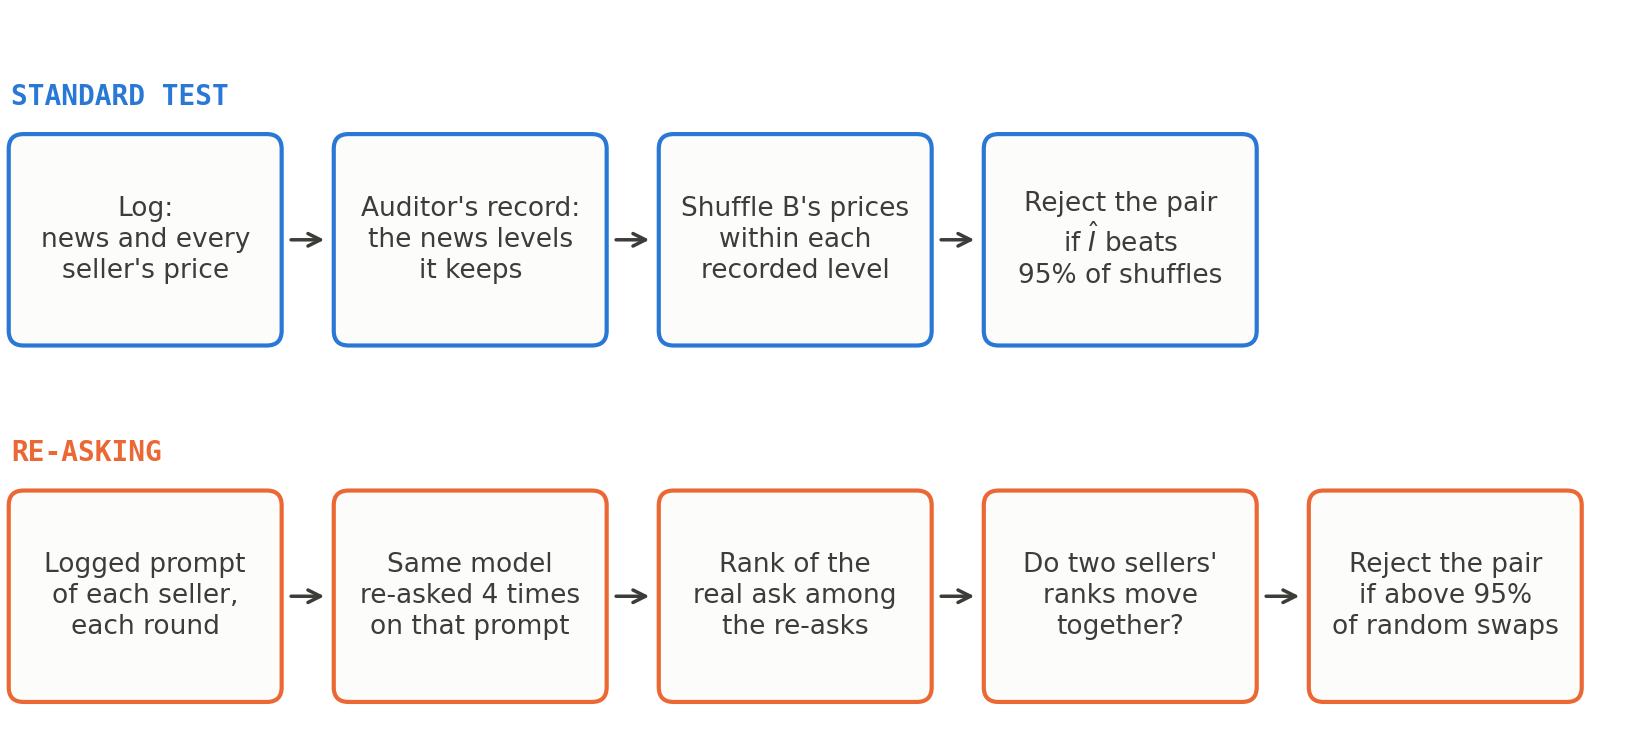
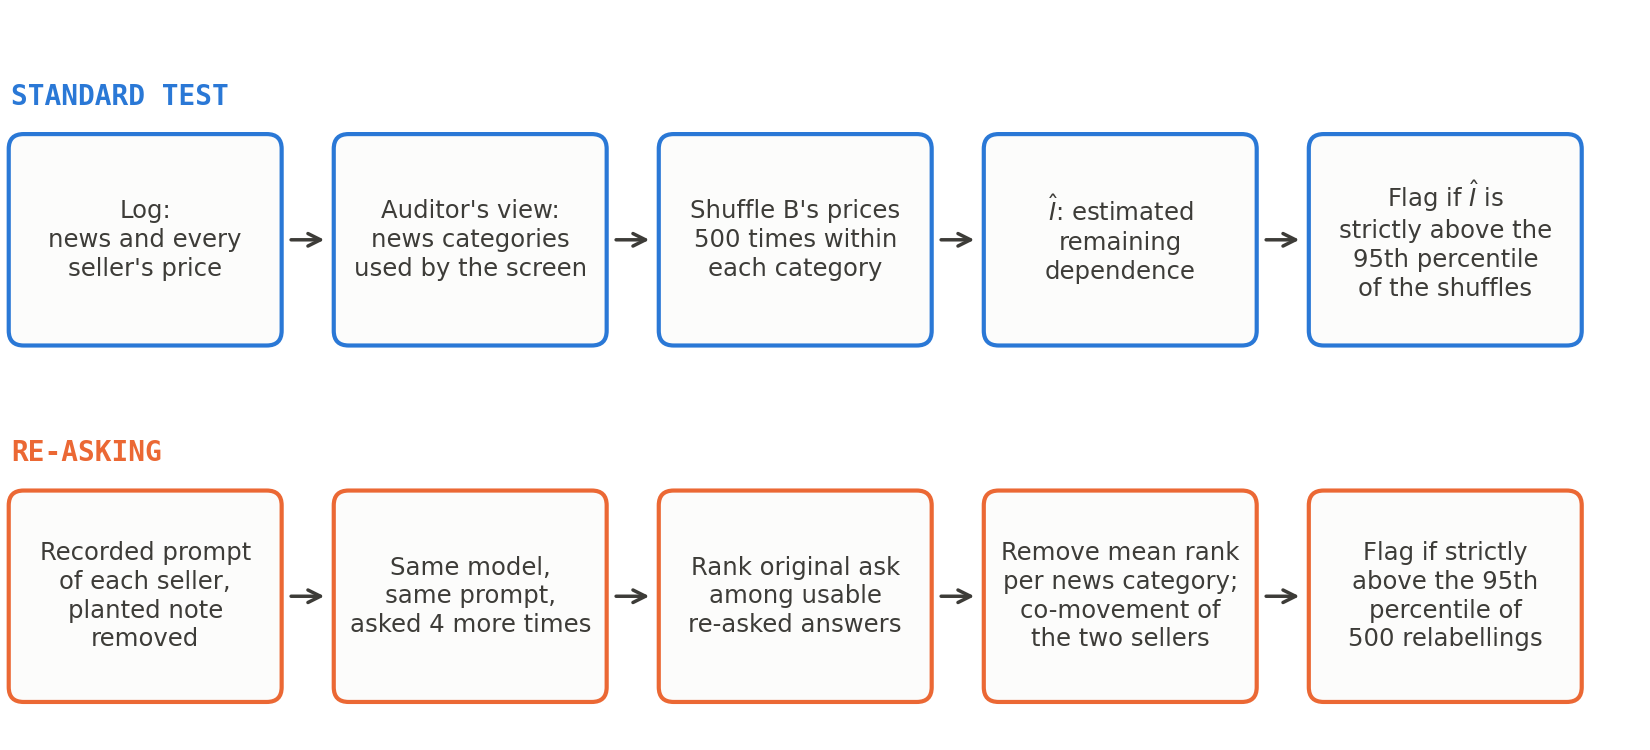
Redraw figures in the paper's vocabulary
Auditor's view wording on axes and panels, method diagram defines Î before
the strict 95th-percentile rule, stacked re-asking figure (fig_reask_tests)
replaces fig5/fig5c, new Figures 1 and 3 (fig_problem, fig_reask_round).

diff --git a/figures.py b/figures.py
@@ -5,9 +5,10 @@ import numpy as np
 import matplotlib
 matplotlib.use("Agg")
 import matplotlib.pyplot as plt
+import matplotlib.ticker
 import sim, theory
 
-TEST, FLAG, THEORY, INK = "#2a78d6", "#eb6834", "#5f5e5a", "#3d3c38"  # validated pair (dataviz palette slots 1-2)
+TEST, FLAG, THEORY, INK, GREEN = "#2a78d6", "#eb6834", "#5f5e5a", "#3d3c38", "#2e9e62"  # validated pair (dataviz palette slots 1-2)
 plt.rcParams.update({"axes.spines.top": False, "axes.spines.right": False, "axes.edgecolor": INK,
                      "axes.labelcolor": INK, "xtick.color": INK, "ytick.color": INK, "font.size": 9})
 
@@ -72,123 +73,106 @@ def rates(path):
 
 
 def dots(ax, x, k_test, k_flag, n, dx=0.12, label=True):
-    """Test-only rate and flag rate side by side at x, each with its Wilson interval."""
-    for k, col, mk, off, name in [(k_test, TEST, "o", -dx, "standard test ($\\hat{I}$ above its 95% shuffle threshold)"), (k_flag, FLAG, "s", dx, "test + ranking rule (Γ)")]:
+    """Standard-test rate and ranking-rule rate side by side at x, each with its Wilson interval."""
+    for k, col, mk, off, name in [(k_test, TEST, "o", -dx, "standard test"), (k_flag, FLAG, "s", dx, "standard test + ranking rule (Γ)")]:
         lo, hi = wilson(k, n)
-        ax.errorbar(x + off, k / n, yerr=[[k / n - lo], [hi - k / n]], fmt=mk, color=col, ms=5, lw=1.2, capsize=0,
+        ax.errorbar(x + off, k / n, yerr=[[k / n - lo], [hi - k / n]], fmt=mk, color=col, ms=4.5, lw=1.1, capsize=0,
                     label=name if label else None)
 
 
 def fig1(R):
-    panels = [("E1", "identity"), ("E2", "identity"), ("E2", "constant"), ("E2b", "identity"),
-              ("E3", "identity"), ("E4", "identity"), ("E4", "constant")]
+    """Appendix: every condition and pair, 600 rounds, in plain condition names (two rows so it prints legibly)."""
+    panels = [("E1", "identity", "prices ignore news,\nno planted pair (50 repeats)"), ("E2", "identity", "prices follow news,\nall five news levels"),
+              ("E2", "constant", "prices follow news,\nno news information"), ("E2b", "identity", "hidden shared input\nfor sellers 1 and 4"),
+              ("E3", "identity", "planted pair (2,3),\nprices ignore news"), ("E4", "identity", "planted pair (2,3),\nall five news levels"),
+              ("E4", "constant", "planted pair (2,3),\nno news information")]
     pairs = ["12", "13", "14", "23", "24", "34"]
-    fig, axs = plt.subplots(1, len(panels), figsize=(14, 2.8), sharey=True)
-    for i, (ax, (c, C)) in enumerate(zip(axs, panels)):
+    fig, axs = plt.subplots(2, 4, figsize=(6.6, 4.6), sharey=True)
+    for i, (ax, (c, C, title)) in enumerate(zip(axs.flat, panels)):
         for j, p in enumerate(pairs):
-            dots(ax, j, *R[(c, C, p)], label=i == 0 and j == 0)
-        ax.axhline(0.05, color=THEORY, ls="--", lw=1)
-        ax.set_xticks(range(6), [f"({p[0]},{p[1]})" for p in pairs], rotation=90)
-        ax.set_title(f"{c}, news {'seen' if C == 'identity' else 'hidden'}" if c in ("E2", "E4") else c, color=INK)
-    axs[0].set_ylabel("share of seeds"); axs[0].set_ylim(-0.02, 1.02)
-    fig.legend(*axs[0].get_legend_handles_labels(), loc="upper right", frameon=False, ncol=2)
-    fig.tight_layout(rect=(0, 0, 1, 0.9)); fig.savefig("figures/fig1_flag_rates.png", dpi=200)
+            dots(ax, j, *R[(c, C, p)], dx=0.15, label=i == 0 and j == 0)
+        ax.axhline(0.05, color=THEORY, ls="--", lw=0.9)
+        ax.set_xticks(range(6), [f"{p[0]},{p[1]}" for p in pairs], fontsize=6.5)
+        ax.set_title(title, color=INK, fontsize=7)
+        ax.tick_params(axis="y", labelsize=7)
+    axs.flat[-1].axis("off")
+    axs[0, 0].set_ylabel("share of repeats flagged", fontsize=7.5); axs[1, 0].set_ylabel("share of repeats flagged", fontsize=7.5)
+    axs[0, 0].set_ylim(-0.02, 1.02)
+    axs.flat[-1].legend(*axs[0, 0].get_legend_handles_labels(), loc="center", frameon=False, fontsize=7, title="seller pair (x-axis)\ndashed line: 5%", title_fontsize=7)
+    fig.tight_layout(pad=0.3); fig.savefig("figures/fig1_flag_rates.png", dpi=250)
 
 
 def fig2(R):
+    """Appendix: hidden shared input of strength λ for sellers 1 and 4, complete record, 600 rounds."""
     lams = [c[3] for c in sim.LAMBDAS]
-    fig, ax = plt.subplots(figsize=(4.5, 3.2))
+    fig, ax = plt.subplots(figsize=(4.3, 3.0))
     for i, (name, *_ ) in enumerate(sim.LAMBDAS):
         dots(ax, lams[i], *R[(name, "identity", "14")], dx=0.03, label=i == 0)
     grid = np.linspace(0, 2, 81)
     ax.plot(grid, [theory.flag_rate(theory.true_cmi(sim.BETA, l, sim.IDENTITY), 5) for l in grid], color=THEORY, lw=1.5,
-            label="theory, test only (non-central χ²)")
+            label="prediction from the model (standard test)")
     ax.axhline(0.05, color=THEORY, ls="--", lw=1)
-    ax.set_xlabel("λ (shared hidden term, agents 1 and 4)"); ax.set_ylabel("share of seeds, pair (1,4)")
+    ax.set_xlabel("λ, strength of the unrecorded shared input"); ax.set_ylabel("share of repeats flagged, pair (1,4)")
     ax.set_ylim(-0.02, 1.02); ax.legend(frameon=False, fontsize=7)
-    fig.tight_layout(); fig.savefig("figures/fig2_lambda.png", dpi=200)
+    fig.tight_layout(); fig.savefig("figures/fig2_lambda.png", dpi=250)
 
 
 def fig3(path="results/dial.csv"):
+    """Appendix: average shuffled statistic (non-colluding pairs, 600 rounds) against K/(2n)."""
     m = defaultdict(list)
     for r in csv.DictReader(open(path)):
         if r["condition"] == "E2": m[r["C"]].append(float(r["null_mean"]))
     Ks = [5, 3, 2, 1]
-    fig, ax = plt.subplots(figsize=(4, 3))
-    ax.plot(Ks, [np.mean(m[f"K{k}"]) for k in Ks], "o", color=TEST, ms=6, label="mean of shuffled $\\hat{I}$ (E2)")
-    ax.plot(Ks, [theory.null_bias(k) for k in Ks], color=THEORY, lw=1.5, label="theory K(r−1)(c−1)/(2n)")
-    ax.set_xticks(Ks); ax.invert_xaxis(); ax.set_xlabel("news states seen by the auditor, K"); ax.set_ylabel("null bias of $\\hat{I}$ (nats)")
-    ax.legend(frameon=False, fontsize=7); fig.tight_layout(); fig.savefig("figures/fig3_null_bias.png", dpi=200)
+    fig, ax = plt.subplots(figsize=(3.6, 2.8))
+    ax.plot(Ks, [np.mean(m[f"K{k}"]) for k in Ks], "o", color=TEST, ms=6, label=f"average of 500 shuffled {I_HAT}")
+    ax.plot(Ks, [theory.null_bias(k) for k in Ks], color=THEORY, lw=1.5, label="approximation $K/(2n)$")
+    ax.set_xticks(Ks, ["5", "3", "2", "no news"]); ax.invert_xaxis()
+    ax.set_xlabel("news categories used by the screen"); ax.set_ylabel(f"{I_HAT} under shuffling (nats)")
+    ax.legend(frameon=False, fontsize=7); fig.tight_layout(); fig.savefig("figures/fig3_null_bias.png", dpi=250)
 
 
 I_HAT = r"$\hat{I}$"
 BIC = "#1baf7a"  # dataviz palette slot 3; contrast WARN, so it always has its own marker (triangle) and legend label
 
 
-def bic_count(path, c, C, p, K, n):
-    """Seeds where the Bayes (BIC) rule flags the pair: 2n·γ > K·log n (n rounds, K news states seen)."""
-    v = [2 * n * float(r["gamma"]) > K * np.log(n) for r in csv.DictReader(open(path)) if (r["condition"], r["C"], r["A"] + r["B"]) == (c, C, p)]
-    return sum(v), len(v)
-
-
-def fig_dial(R, R6000=None):
-    """Dial: E2 innocent pair at T = 600 (and T = 6000 if given), E4 pairs at T = 600. Test-only, flag and Bayes
-    (BIC) rates with Wilson intervals; theory lines for E2: test (solid), BIC (dashed). 5% reference dotted."""
-    Ks = [5, 3, 2, 1]
-    panels = [("E2", "14", "E2, innocent pair (1,4), T = 600", R, "results/dial.csv", 600)]
-    if R6000: panels.append(("E2", "14", "E2, innocent pair (1,4), T = 6000", R6000, "results/dial_T6000.csv", 6000))
-    panels += [("E4", "14", "E4, innocent pair (1,4), T = 600", R, "results/dial.csv", 600),
-               ("E4", "23", "E4, colluding pair (2,3), T = 600", R, "results/dial.csv", 600)]
-    fig, axs = plt.subplots(1, len(panels), figsize=(3.4 * len(panels), 3.2), sharey=True)
-    for ax, (c, p, title, RR, path, n) in zip(axs, panels):
-        for i, k in enumerate(Ks):
-            dots(ax, i, *RR[(c, f"K{k}", p)], dx=0.15, label=ax is axs[0] and i == 0)
-            kb, nb = bic_count(path, c, f"K{k}", p, k, n)
-            lo, hi = wilson(kb, nb)
-            ax.errorbar(i, kb / nb, yerr=[[kb / nb - lo], [hi - kb / nb]], fmt="^", color=BIC, ms=5, lw=1.2, capsize=0,
-                        label="Bayes-factor rule (2n$\\hat{I}$ > K log n)" if ax is axs[0] and i == 0 else None)
-        if c == "E2":
-            I = [theory.true_cmi(sim.BETA, 0.0, sim.DIAL[f"K{k}"]) for k in Ks]
-            ax.plot(range(4), [theory.flag_rate(x, k, n) for x, k in zip(I, Ks)], color=THEORY, lw=1.5, label="theory, test only" if ax is axs[0] else None)
-            ax.plot(range(4), [theory.bic_flag_rate(x, k, n) for x, k in zip(I, Ks)], color=THEORY, lw=1.5, ls="--", label="theory, Bayes rule" if ax is axs[0] else None)
-        ax.axhline(0.05, color=THEORY, ls=":", lw=1)
-        ax.set_xticks(range(4), [str(k) for k in Ks]); ax.set_xlabel("news states seen by the auditor, K"); ax.set_title(title, color=INK, fontsize=8)
-    axs[0].set_ylabel("share of seeds"); axs[0].set_ylim(-0.02, 1.02); axs[0].legend(frameon=False, fontsize=6)
-    fig.tight_layout(); fig.savefig("figures/fig_dial.png", dpi=200)
-
-
 def fig_hero(path="results/pooled.csv"):
-    """Hero figure: innocent pairs (E2, pooled over the 6 pairs, cluster bootstrap by seed) rejected vs the auditor's
-    information level. (a) permutation test, (b) Bayes rule; data at 600 and 6,000 rounds, lines = prediction from the model."""
+    """Main figure: non-colluding pairs wrongly flagged vs the news categories the auditor records (E2, six pairs pooled,
+    cluster bootstrap by repeat). (a) standard test, (b) stricter BIC-based rule; data at 600 and 6,000 rounds, lines = prediction."""
     P = {(r["source"], r["C"], r["rate"]): r for r in csv.DictReader(open(path)) if r["condition"] == "E2"}
     Ks = [5, 3, 2, 1]
     I = [theory.true_cmi(sim.BETA, 0.0, sim.DIAL[f"K{k}"]) for k in Ks]
-    fig, axs = plt.subplots(1, 2, figsize=(6.6, 3.0), sharey=True)
+    fig, axs = plt.subplots(1, 2, figsize=(6.6, 3.1), sharey=True)
     for ax, (rate, pred, title) in zip(axs, [("test", theory.flag_rate, "(a) standard test, 5% level"),
-                                             ("bayes", theory.bic_flag_rate, "(b) Bayes-factor rule: reject if 2n$\\hat{I}$ > K log n")]):
+                                             ("bayes", theory.bic_flag_rate, "(b) stricter BIC-based rule")]):
         for src, n, col, mk in [("dial.csv", 600, TEST, "o"), ("dial_T6000.csv", 6000, FLAG, "s")]:
             ax.plot(range(4), [pred(x, k, n) for x, k in zip(I, Ks)], color=col, lw=1.3, alpha=0.7)
             for i, k in enumerate(Ks):
                 r = P.get((src, f"K{k}", rate))
                 if r is None: continue
                 e, lo, hi = float(r["estimate"]), float(r["lo"]), float(r["hi"])
-                ax.errorbar(i + (0.06 if n == 6000 else -0.06), e, yerr=[[e - lo], [hi - e]], fmt=mk, color=col, ms=5, lw=1.2,
-                            capsize=0, label=f"{n:,} rounds: data (line = prediction)" if i == 0 else None)
+                dx = 0.06 if n == 6000 else -0.06
+                ax.errorbar(i + dx, e, yerr=[[e - lo], [hi - e]], fmt=mk, color=col, ms=5, lw=1.2, capsize=0,
+                            label=f"{n:,} rounds (line: prediction)" if i == 0 else None)
+                if 0.004 < e < 0.995:  # print the measured rate next to every point that is not 0% or 100%
+                    ax.annotate(f"{e:.1%}", (i + dx, e), xytext=(7 if n == 6000 else -7, 8 if i == 0 else 0), textcoords="offset points",
+                                ha="left" if n == 6000 else "right", va="center", fontsize=6.5, color=col)
         ax.axhline(0.05, color=THEORY, ls=":", lw=1, label="5% target" if ax is axs[0] else None)
-        ax.set_xticks(range(4), ["5\n(complete)", "3", "2", "none"]); ax.set_xlabel("news levels the auditor records")
-        ax.set_title(title, color=INK, fontsize=9)
-    axs[0].set_ylabel("innocent pairs rejected"); axs[0].set_ylim(-0.02, 1.02); axs[0].legend(frameon=False, fontsize=7.5, loc="upper left")
-    fig.tight_layout(); fig.savefig("figures/fig_hero.png", dpi=200)
+        ax.set_xticks(range(4), ["5\n(all levels)", "3", "2", "no news"]); ax.set_xlabel("news categories used by the screen")
+        ax.set_title(title, color=INK, fontsize=8.5)
+    axs[0].set_ylabel("non-colluding pairs wrongly flagged"); axs[0].set_ylim(-0.03, 1.05)
+    axs[0].yaxis.set_major_formatter(matplotlib.ticker.PercentFormatter(1.0)); axs[0].legend(frameon=False, fontsize=7, loc="upper left")
+    fig.tight_layout(); fig.savefig("figures/fig_hero.png", dpi=250)
 
 
 def fig_method(out="figures/fig1_method.png"):
     """Figure 1: the two tests as flat box-and-arrow rows, drawn at page width so its text prints at about 8 pt."""
     from matplotlib.patches import FancyBboxPatch
-    rows = [("STANDARD TEST", TEST, ["Log:\nnews and every\nseller's price", "Auditor's record:\nthe news levels\nit keeps",
-                                      "Shuffle B's prices\nwithin each\nrecorded level", f"Reject the pair\nif {I_HAT} beats\n95% of shuffles"]),
-            ("RE-ASKING", FLAG, ["Logged prompt\nof each seller,\neach round", "Same model\nre-asked 4 times\non that prompt",
-                                 "Rank of the\nreal ask among\nthe re-asks", "Do two sellers'\nranks move\ntogether?",
-                                 "Reject the pair\nif above 95%\nof random swaps"])]
+    rows = [("STANDARD TEST", TEST, ["Log:\nnews and every\nseller's price", "Auditor's view:\nnews categories\nused by the screen",
+                                      "Shuffle B's prices\n500 times within\neach category", f"{I_HAT}: estimated\nremaining\ndependence",
+                                      f"Flag if {I_HAT} is\nstrictly above the\n95th percentile\nof the shuffles"]),
+            ("RE-ASKING", FLAG, ["Recorded prompt\nof each seller,\nplanted note\nremoved", "Same model,\nsame prompt,\nasked 4 more times",
+                                 "Rank original ask\namong usable\nre-asked answers", "Remove mean rank\nper news category;\nco-movement of\nthe two sellers",
+                                 "Flag if strictly\nabove the 95th\npercentile of\n500 relabellings"])]
     fig, ax = plt.subplots(figsize=(6.6, 3.0)); ax.set_xlim(0, 6.6); ax.set_ylim(0, 3.0); ax.axis("off")
     w, gap = 1.08, 0.23
     for r, (label, col, boxes) in enumerate(rows):
@@ -198,7 +182,7 @@ def fig_method(out="figures/fig1_method.png"):
             x = 0.02 + i * (w + gap)
             ax.add_patch(FancyBboxPatch((x, y - 0.42), w, 0.84, boxstyle="round,pad=0.01,rounding_size=0.06",
                                         fc="#fcfcfb", ec=col, lw=1.2))
-            ax.text(x + w / 2, y, t, ha="center", va="center", fontsize=7.6, color=INK, linespacing=1.25)
+            ax.text(x + w / 2, y, t, ha="center", va="center", fontsize=7.0, color=INK, linespacing=1.25)
             if i < len(boxes) - 1:
                 ax.annotate("", xy=(x + w + gap - 0.02, y), xytext=(x + w + 0.02, y), arrowprops=dict(arrowstyle="->", color=INK, lw=1))
     fig.tight_layout(pad=0.2); fig.savefig(out, dpi=250)
@@ -211,6 +195,6 @@ if __name__ == "__main__":
     fig1(rates("results/runs.csv"))
     if os.path.exists("results/lambda.csv"): fig2(rates("results/lambda.csv"))
     if os.path.exists("results/dial.csv"):
-        fig3(); fig_dial(rates("results/dial.csv"), rates("results/dial_T6000.csv") if os.path.exists("results/dial_T6000.csv") else None)
+        fig3()
     pooled_table(); fig_hero(); fig_method()
     print("wrote figures/")

diff --git a/llm/replay.py b/llm/replay.py
@@ -198,21 +198,31 @@ def write_results(conds, done, out=os.path.join(os.path.dirname(ROOT), "results"
     print(f"wrote {out}")
 
 
-def figure(path=os.path.join(os.path.dirname(ROOT), "results", "replay.csv"),
-           out=os.path.join(os.path.dirname(ROOT), "figures", "fig5_replay.png"), col="gamma", ylabel=r"$\hat{I}$ (nats)"):
-    """Observed γ vs the 95th percentile of its replay null, one column per pair-run, S then C1. Labelled pilot."""
+def figure(out=os.path.join(os.path.dirname(ROOT), "figures", "fig_reask_tests.png")):
+    """Re-asking tests, stacked: (a) pre-registered binary statistic (results/replay.csv), (b) rank statistic
+    (results/replay_rank.csv). One column per pair and game; games without a planted pair left, planted games right."""
     import csv
     import matplotlib; matplotlib.use("Agg"); import matplotlib.pyplot as plt
     sys.path.insert(0, os.path.dirname(ROOT)); import figures as F
-    rows = list(csv.DictReader(open(path)))
-    fig, ax = plt.subplots(figsize=(7, 3))
-    for i, r in enumerate(rows):
-        x = i + (i >= 9)  # gap between S and C1
-        ax.plot([x, x], [float(r["null_mean"]), float(r["q95"])], color=F.TEST, lw=2, label="replay null: mean to 95th pct." if i == 0 else None)
-        ax.plot(x, float(r[col]), "s", color=F.FLAG, ms=5, label="observed " + ylabel.split(" (")[0] if i == 0 else None)
-    ax.set_xticks([i + (i >= 9) for i in range(len(rows))], [f"{r['condition']} s{r['seed']}\n({r['A']},{r['B']})" for r in rows], fontsize=6)
-    ax.set_ylabel(ylabel); ax.set_title("Pilot, replay test (3 runs each): S left, C1 right; coupled pair in C1 = (1,2)", color=F.INK, fontsize=8)
-    ax.legend(frameon=False, fontsize=7); fig.tight_layout(); fig.savefig(out, dpi=200)
+    base = os.path.join(os.path.dirname(ROOT), "results")
+    panels = [("replay.csv", "gamma", r"$\hat{I}$ on raised-or-not moves", "(a) pre-registered binary statistic"),
+              ("replay_rank.csv", "c", r"rank co-movement $S_{ij}$", "(b) rank statistic, chosen after inspecting the planted games")]
+    fig, axs = plt.subplots(2, 1, figsize=(6.6, 4.8))
+    for ax, (f, col, ylabel, title) in zip(axs, panels):
+        rows = list(csv.DictReader(open(os.path.join(base, f))))
+        for i, r in enumerate(rows):
+            x = i + (i >= 9)  # gap between the two groups
+            planted = r["condition"] == "C1" and r["A"] + r["B"] == "12"
+            ax.plot([x, x], [float(r["null_mean"]), float(r["q95"])], color=F.TEST, lw=2.2, label="re-asking comparison: mean to 95th percentile" if i == 0 else None)
+            ax.plot(x, float(r[col]), "s", color=F.GREEN if planted else F.FLAG, ms=5,
+                    label="observed, planted pair" if planted and i == 9 else ("observed, other pairs" if i == 0 else None))
+        ax.set_xticks([i + (i >= 9) for i in range(len(rows))], [f"g{int(r['seed']) + 1}\n{r['A']},{r['B']}" for r in rows], fontsize=6)
+        ax.set_ylabel(ylabel, fontsize=7.5); ax.set_title(title, color=F.INK, fontsize=8, pad=16); ax.tick_params(axis="y", labelsize=7)
+        ax.text(0.27, 1.01, "games without a planted pair", transform=ax.transAxes, ha="center", va="bottom", fontsize=7, color=F.MUTED if hasattr(F, "MUTED") else F.INK)
+        ax.text(0.77, 1.01, "planted games (planted pair = 1,2)", transform=ax.transAxes, ha="center", va="bottom", fontsize=7, color=F.INK)
+    axs[1].set_xlabel("game (g1–g3) and seller pair; a pair is flagged when its square is above its bar", fontsize=7)
+    fig.legend(*axs[1].get_legend_handles_labels(), loc="upper center", ncol=3, frameon=False, fontsize=6.8)
+    fig.tight_layout(rect=(0, 0, 1, 0.95)); fig.savefig(out, dpi=250)
     print(f"wrote {out}")
 
 
@@ -246,7 +256,7 @@ if __name__ == "__main__":
                     print(f"{cond} seed {seed}: per-seller mean u - 0.5 {np.round(ps, 3)}; pairs "
                           f"{[(f'{r[0]}{r[1]}', round(r[2], 4), round(r[3], 4), r[5]) for r in rows]}")
         print(f"wrote {out}")
-        figure(out, os.path.join(os.path.dirname(ROOT), "figures", "fig5c_replay_rank.png"), col="c", ylabel="c (rank co-movement)")
+        figure()
     if a.test:
         done = {}
         for l in open(CACHE):
@@ -254,7 +264,6 @@ if __name__ == "__main__":
         if a.lowered:
             out = os.path.join(os.path.dirname(ROOT), "results", "replay_exploratory.csv")
             write_results({c: v for c, v in runs.items() if v}, done, out, lowered=True)
-            figure(out, os.path.join(os.path.dirname(ROOT), "figures", "fig5b_replay_exploratory.png"))
         else:
             write_results({c: v for c, v in runs.items() if v}, done)
             figure()

diff --git a/llm/examples.py b/llm/examples.py
@@ -9,9 +9,9 @@ sys.path.insert(0, "llm"); sys.path.insert(0, ".")
 import analyse, figures as F
 
 COLORS = [F.TEST, F.FLAG, F.BIC]
-fig, axs = plt.subplots(2, 1, figsize=(9, 5.5), sharex=True)
-for ax, (tag, title) in zip(axs, [("S-0", "S, seed 0: three Haiku sellers, no coupling"),
-                                  ("C1-1", "C1, seed 1: sellers 1 and 2 share a private coin (shaded = heads: \"do not lower your ask\")")]):
+fig, axs = plt.subplots(2, 1, figsize=(6.6, 4.4), sharex=True)
+for ax, (tag, title) in zip(axs, [("S-0", "Game without a planted pair (seed 0): three Claude Haiku sellers"),
+                                  ("C1-1", "Planted game (seed 1): sellers 1 and 2 share a private coin (shaded rounds: \"do not lower your ask\")")]):
     d = sorted(glob.glob(f"llm/work/repo/results/*_pilot-{tag}"))[0]
     rows = [json.loads(l) for l in open(f"{d}/news.jsonl")]
     news, asks = analyse.load(d)
@@ -19,10 +19,11 @@ for ax, (tag, title) in zip(axs, [("S-0", "S, seed 0: three Haiku sellers, no co
     for i, h in enumerate(r.get("coin", 0) for r in rows):
         if h: ax.axvspan(i + 0.5, i + 1.5, color=F.INK, alpha=0.08, lw=0)
     for s in range(asks.shape[1]):
-        ax.plot(t, asks[:, s], color=COLORS[s], lw=1.4, label=f"seller {s + 1}" + (" (coupled)" if tag.startswith("C1") and s < 2 else ""))
+        ax.plot(t, asks[:, s], color=COLORS[s], lw=1.4, label=f"seller {s + 1}" + (" (planted pair)" if tag.startswith("C1") and s < 2 else ""))
     ax.scatter(t, np.full(len(t), 79.6), c=[["#c3c2b7", "#8a8980", "#3d3c38"][n] for n in news], marker="|", s=60)
-    ax.set_ylim(79.4, 84.5); ax.set_ylabel("ask ($)"); ax.set_title(title, color=F.INK, fontsize=8)
+    ax.set_ylim(79.4, 84.5); ax.set_ylabel("ask ($)"); ax.set_title(title, color=F.INK, fontsize=7.5)
+    ax.text(12, 83.9, "opening asks near $95 are above the axis", fontsize=6, color=F.INK, va="top")
     ax.legend(frameon=False, fontsize=7, loc="upper right")
-axs[1].set_xlabel("round (hour); bottom strip = demand news: light falling, mid steady, dark rising; seller cost = $80")
-fig.tight_layout(); fig.savefig("figures/fig6_llm_paths.png", dpi=200)
+axs[1].set_xlabel("round; bottom strip = demand news (light: falling, mid: steady, dark: rising); seller cost $80")
+fig.tight_layout(); fig.savefig("figures/fig6_llm_paths.png", dpi=250)
 print("wrote figures/fig6_llm_paths.png")

diff --git a/llm/analyse.py b/llm/analyse.py
@@ -1,5 +1,5 @@
 """Block B pilot analysis: seller asks per round -> binary move (raised or not) -> the scripted detector.
-Writes results/llm.csv (columns as results/runs.csv + models) and figures/fig4_llm.png. Run from the repo root."""
+Writes results/llm.csv (columns as results/runs.csv + models). Run from the repo root."""
 import csv, glob, json, os, re, sys
 import numpy as np
 sys.path.insert(0, ".")
@@ -57,16 +57,4 @@ if __name__ == "__main__":
         w = csv.writer(fh)
         w.writerow(["condition", "C", "seed", "A", "B", "gamma", "q95", "null_mean", "flag", "models"])
         w.writerows(rows)
-    import matplotlib.pyplot as plt
-    R = figures.rates("results/llm.csv")
-    fig, ax = plt.subplots(figsize=(5, 3))
-    for i, (cond, label) in enumerate([("S", "S: Haiku ×3"), ("D", "D: Haiku, Sonnet, Haiku")]):
-        for j, p in enumerate(["12", "13", "23"]):
-            if (cond, "identity", p) in R:
-                figures.dots(ax, i * 4 + j, *R[(cond, "identity", p)], label=i == 0 and j == 0)
-    ax.axhline(0.05, color=figures.THEORY, ls="--", lw=1)
-    ax.set_xticks([0, 1, 2, 4, 5, 6], ["(1,2)", "(1,3)", "(2,3)"] * 2)
-    ax.set_title("Pilot (3 seeds): S left, D right", color=figures.INK); ax.set_ylabel("share of seeds")
-    ax.set_ylim(-0.02, 1.02); ax.legend(frameon=False, fontsize=7)
-    fig.tight_layout(); fig.savefig("figures/fig4_llm.png", dpi=200)
-    print("wrote results/llm.csv, figures/fig4_llm.png")
+    print("wrote results/llm.csv")

diff --git a/sensitivity.py b/sensitivity.py
@@ -58,10 +58,11 @@ if __name__ == "__main__":
             w.writerow(row); print(f"{row[0]:<34} first {row[1]:.2f} [{row[2]:.2f}, {row[3]:.2f}]  total {row[4]:.2f} [{row[5]:.2f}, {row[6]:.2f}]")
     import matplotlib; matplotlib.use("Agg"); import matplotlib.pyplot as plt
     import figures as F
-    fig, ax = plt.subplots(figsize=(5.5, 2.8))
+    fig, ax = plt.subplots(figsize=(5.0, 2.6))
     y = np.arange(4)[::-1]
     ax.barh(y + 0.18, ST, 0.34, xerr=[ST - loT, hiT - ST], color=F.TEST, label="total index")
     ax.barh(y - 0.18, S1, 0.34, xerr=[S1 - lo1, hi1 - S1], color=F.FLAG, label="first-order index")
-    ax.set_yticks(y, NAMES, fontsize=8); ax.set_xlabel("Sobol index of the predicted false-positive rate")
-    ax.legend(frameon=False, fontsize=7); fig.tight_layout(); fig.savefig("figures/figA_sobol.png", dpi=200)
+    labels = ["news sensitivity β", "unrecorded shared input λ", "auditor's view (news categories)", "number of rounds n"]
+    ax.set_yticks(y, labels, fontsize=8); ax.set_xlabel("Sobol index of the predicted false-positive rate")
+    ax.legend(frameon=False, fontsize=7); fig.tight_layout(); fig.savefig("figures/figA_sobol.png", dpi=250)
     print("wrote results/sobol.csv, figures/figA_sobol.png")
